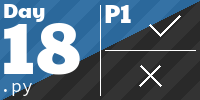
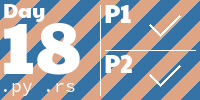
Day 18+

diff --git a/solutions/day18/day18.rs b/solutions/day18/day18.rs
@@ -1,0 +1,52 @@
+use std::io::{self, Read};
+
+use itertools::Itertools;
+use regex::Regex;
+
+fn part1and2(inp: &String, hex: bool) -> i64 {
+    let (mut x, mut y, mut b) = (0, 0, 0);
+    let mut pnts = vec![(0, 0)];
+
+    let re = Regex::new(r"[a-z0-9]{5}").unwrap();
+
+    for line in inp.lines() {
+        let (d, k, c) = line.split_whitespace().collect_tuple().unwrap();
+        let (d, k) = if hex {
+            (
+                c.chars().nth(7).unwrap(),
+                i64::from_str_radix(re.find(c).unwrap().as_str(), 16).unwrap(),
+            )
+        } else {
+            (d.chars().next().unwrap(), k.parse().unwrap())
+        };
+
+        b += k;
+
+        match d {
+            'R' | '0' => x += k,
+            'D' | '1' => y += k,
+            'L' | '2' => x -= k,
+            'U' | '3' => y -= k,
+            _ => panic!(),
+        }
+
+        pnts.push((y, x));
+    }
+
+    // Shoelace + Pick
+    pnts.iter()
+        .tuple_windows()
+        .map(|(a, b)| a.0 * b.1 - a.1 * b.0)
+        .sum::<i64>()
+        .abs()
+        / 2
+        + b / 2
+        + 1
+}
+
+fn main() {
+    let mut inp = String::new();
+    _ = io::stdin().read_to_string(&mut inp);
+
+    println!("{} {}", part1and2(&inp, false), part1and2(&inp, true));
+}

diff --git a/solutions/day18/day18.py b/solutions/day18/day18.py
@@ -3,30 +3,31 @@ from itertools import pairwise, starmap
 inp = [x.split() for x in open(0).read().splitlines()]
 
 
-def part1():
+def part1and2(hex=False):
     y, x = 0, 0
-    b = [(y, x)]
-    v = 0
+    pnts = [(y, x)]
+    b = 0
 
-    for d, k, _ in inp:
-        v += int(k)
+    for d, k, c in inp:
+        b += (k := int(c[2:7], 16) if hex else int(k))
+        d = c[7] if hex else d
 
         match d:
-            case "U":
-                y -= int(k)
-            case "D":
-                y += int(k)
-            case "L":
-                x -= int(k)
-            case "R":
-                x += int(k)
+            case "R" | "0":
+                x += k
+            case "D" | "1":
+                y += k
+            case "L" | "2":
+                x -= k
+            case "U" | "3":
+                y -= k
 
-        b.append((y, x))
+        pnts.append((y, x))
 
     # Shoelace + Pick
-    A = abs(sum(starmap(lambda a, b: a[0] * b[1] - a[1] * b[0], pairwise(b)))) // 2
+    A = abs(sum(starmap(lambda a, b: a[0] * b[1] - a[1] * b[0], pairwise(pnts)))) // 2
 
-    return A + v // 2 + 1
+    return A + b // 2 + 1
 
 
-print(part1())
+print(part1and2(), part1and2(True))

diff --git a/README.md b/README.md
@@ -6,7 +6,7 @@ My solutions for [Advent of Code](https://adventofcode.com/2023) in 2023. Probab
 
 <!-- AOC TILES BEGIN -->
 <h1 align="center">
-  2023 - 35 ⭐
+  2023 - 36 ⭐
 </h1>
 <a href="solutions/day01/day01.cpp">
   <img src="Media/2023/01.png" width="161px">
